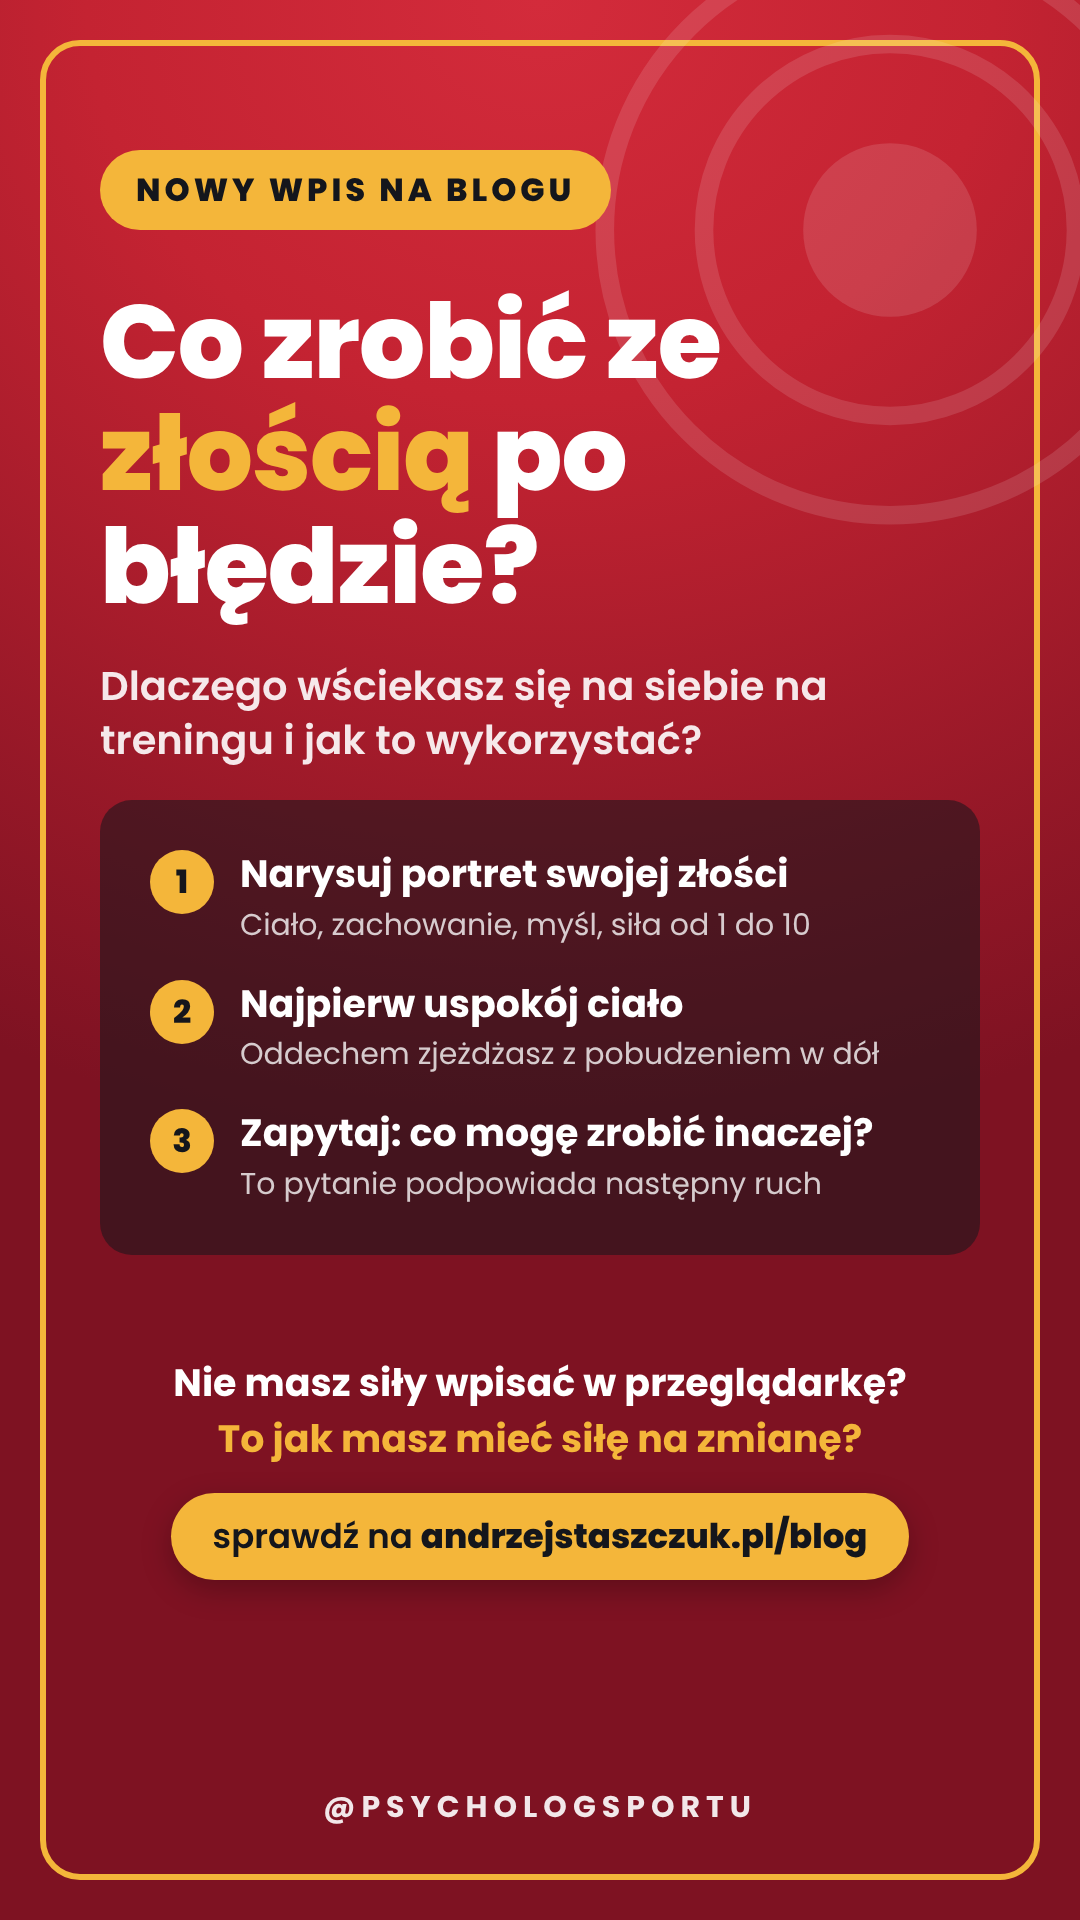
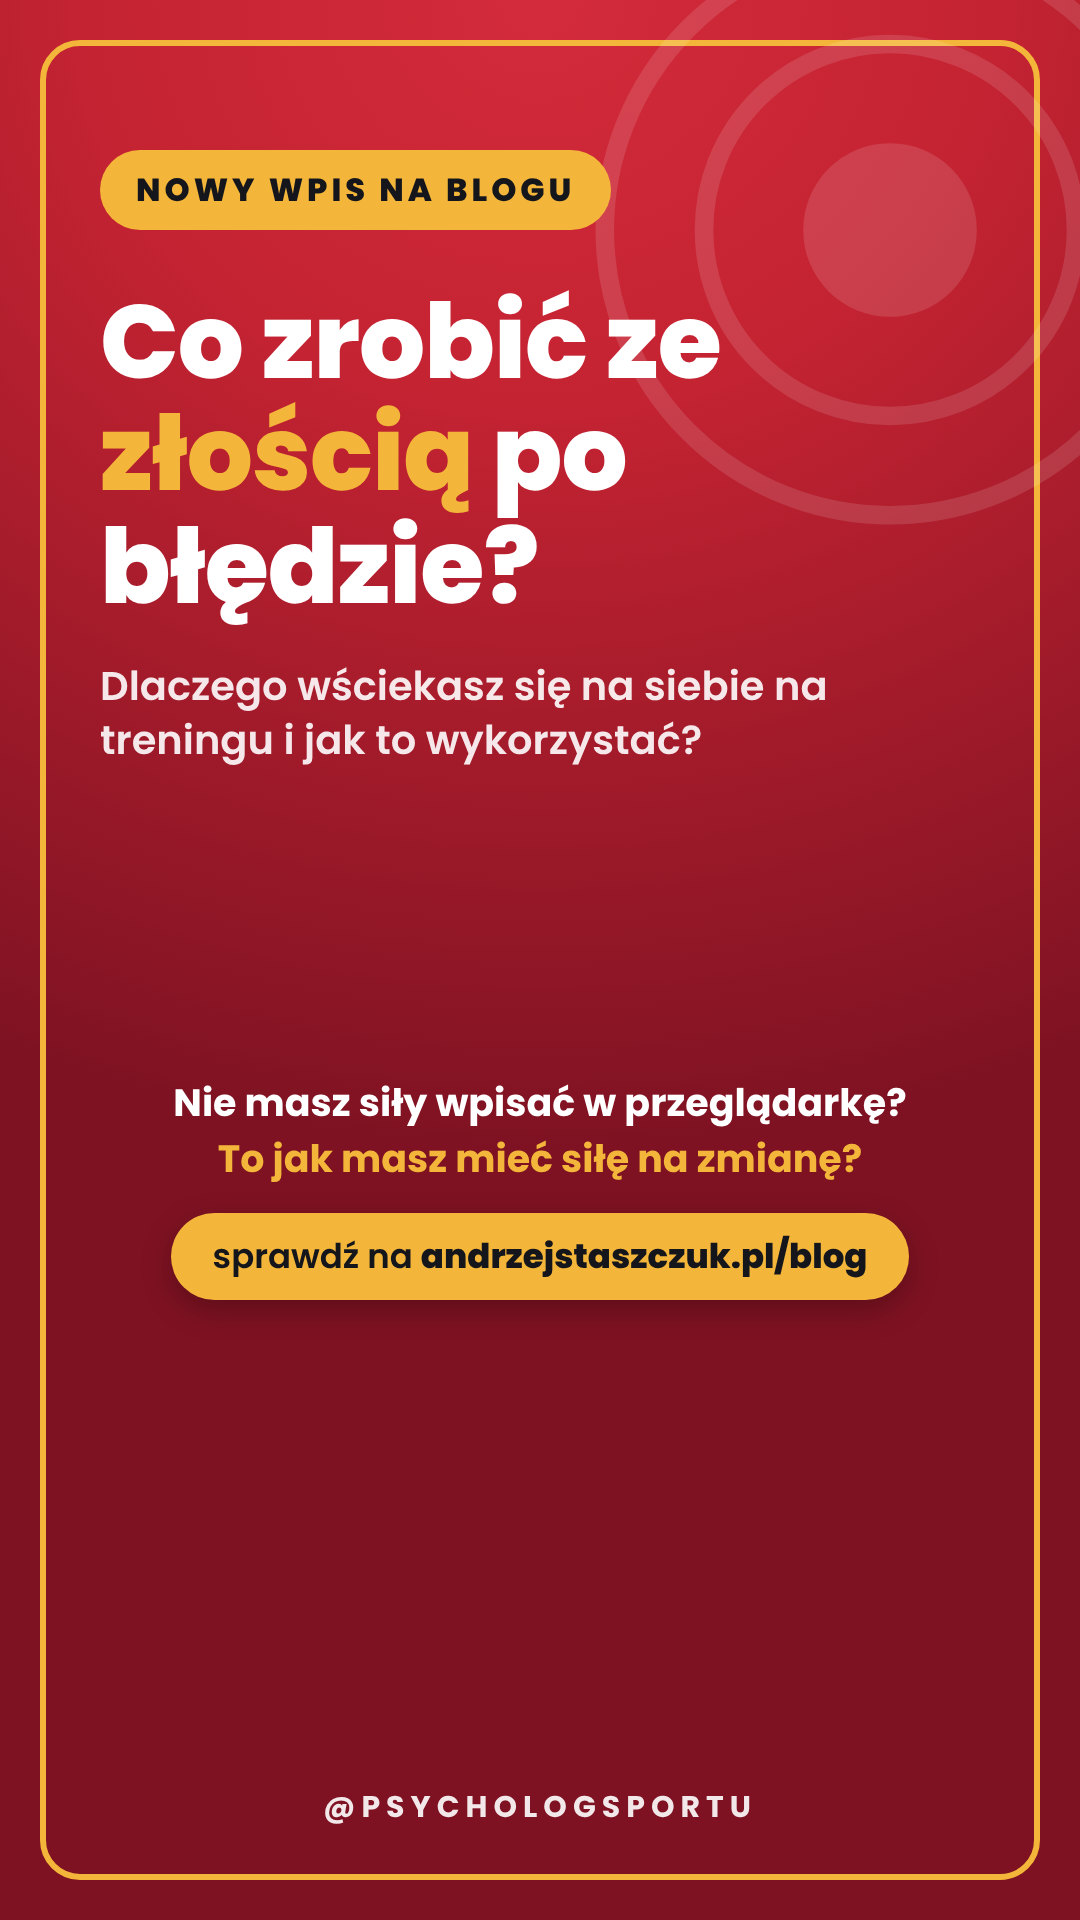
Relacje z bloga bez rozwiązań
Claude-Session: https://claude.ai/code/session_01A5PTvWpyS7iEo6fG2kmJPS

Changed region(s): [[0.0917, 0.4062, 0.9167, 0.8438]]

diff --git a/tools/relacja-wpis.js b/tools/relacja-wpis.js
@@ -22,7 +22,7 @@ body{width:1080px;height:1920px;overflow:hidden;font-family:Pop;color:#fff;backg
   <div style="margin-top:56px;font:800 104px/1.08 Pop;letter-spacing:-1px">${esc(o.t1)}<span style="color:${Y}">${esc(o.hl)}</span>${esc(o.t2)}</div>
   <div style="margin-top:36px;font:600 40px/1.35 Pop;color:rgba(255,255,255,.9)">${esc(o.sub)}</div>
 </div>
-<div style="position:absolute;left:100px;right:100px;top:${o.itemsTop || 930}px;background:rgba(20,22,28,.55);border-radius:32px;padding:50px 50px">${items}</div>
+${items?`<div style="position:absolute;left:100px;right:100px;top:${o.itemsTop || 930}px;background:rgba(20,22,28,.55);border-radius:32px;padding:50px 50px">${items}</div>`:''}
 ${(o.cta||o.cta2)?`<div style="position:absolute;left:90px;right:90px;bottom:${+o.ctaBottom||250}px;text-align:center">${o.cta2?(()=>{const p=String(o.cta2).split(/(?<=\?)\s+/);return `<div style="font:700 38px/1.3 Pop;color:#fff">${esc(p[0])}</div>${p.length>1?`<div style="font:700 38px/1.3 Pop;color:${Y};margin-top:6px">${esc(p.slice(1).join(' '))}</div>`:''}`})():''}${o.cta?(()=>{const m=String(o.cta).match(/^(.*?\s)?(\S+\.\S+)$/);return `<div style="display:inline-block;margin-top:${o.cta2?30:0}px;background:${Y};color:#14161C;border-radius:999px;padding:18px 42px;font:600 34px Pop;box-shadow:0 10px 30px rgba(0,0,0,.25)">${m?`${esc(m[1]||'')}<b style="font-weight:800">${esc(m[2])}</b>`:esc(o.cta)}</div>`})():''}</div>`:''}
 <div style="position:absolute;left:0;right:0;bottom:90px;text-align:center;font:700 30px Pop;letter-spacing:6px;opacity:.9">@PSYCHOLOGSPORTU</div>
 </body></html>`;

diff --git a/relacje-marki/UWAGI-ANDRZEJA.md b/relacje-marki/UWAGI-ANDRZEJA.md
@@ -8,3 +8,4 @@
 - 26.11.2026: te zasady obowiązują w każdej nowej relacji z bloga. Gdy tytuł ma 4 linijki, przesuń listę niżej (itemsTop 880, ctaBottom 420), żeby nic na siebie nie nachodziło.
 - 26.11.2026: pod adresem bloga zawsze drugi wiersz (cta2, żółty): Nie masz siły wpisać w przeglądarkę? To jak masz mieć siłę na zmianę? Napis na dole niżej (ctaBottom ok. 380, przy 4-linijkowym tytule 330), żeby nie nachodził na listę.
 - 26.11.2026: dół relacji estetyczniej: najpierw pytanie (pierwsze zdanie białe, drugie żółte), pod nim żółta pigułka z adresem: sprawdź na andrzejstaszczuk.pl/blog (adres pogrubiony). ctaBottom ok. 340 (przy dłuższej liście 290–300); między pigułką a podpisem @PSYCHOLOGSPORTU miejsce na naklejkę.
+- 26.11.2026: NIE dawaj rozwiązań na relacji z bloga (items puste, bez ramki z punktami). Zostaje: etykieta, tytuł-haczyk, podtytuł-pytanie, pytanie o siłę na zmianę i pigułka z adresem bloga (ctaBottom ok. 620, przy 4-linijkowym tytule 560). Rozwiązania są na blogu.
